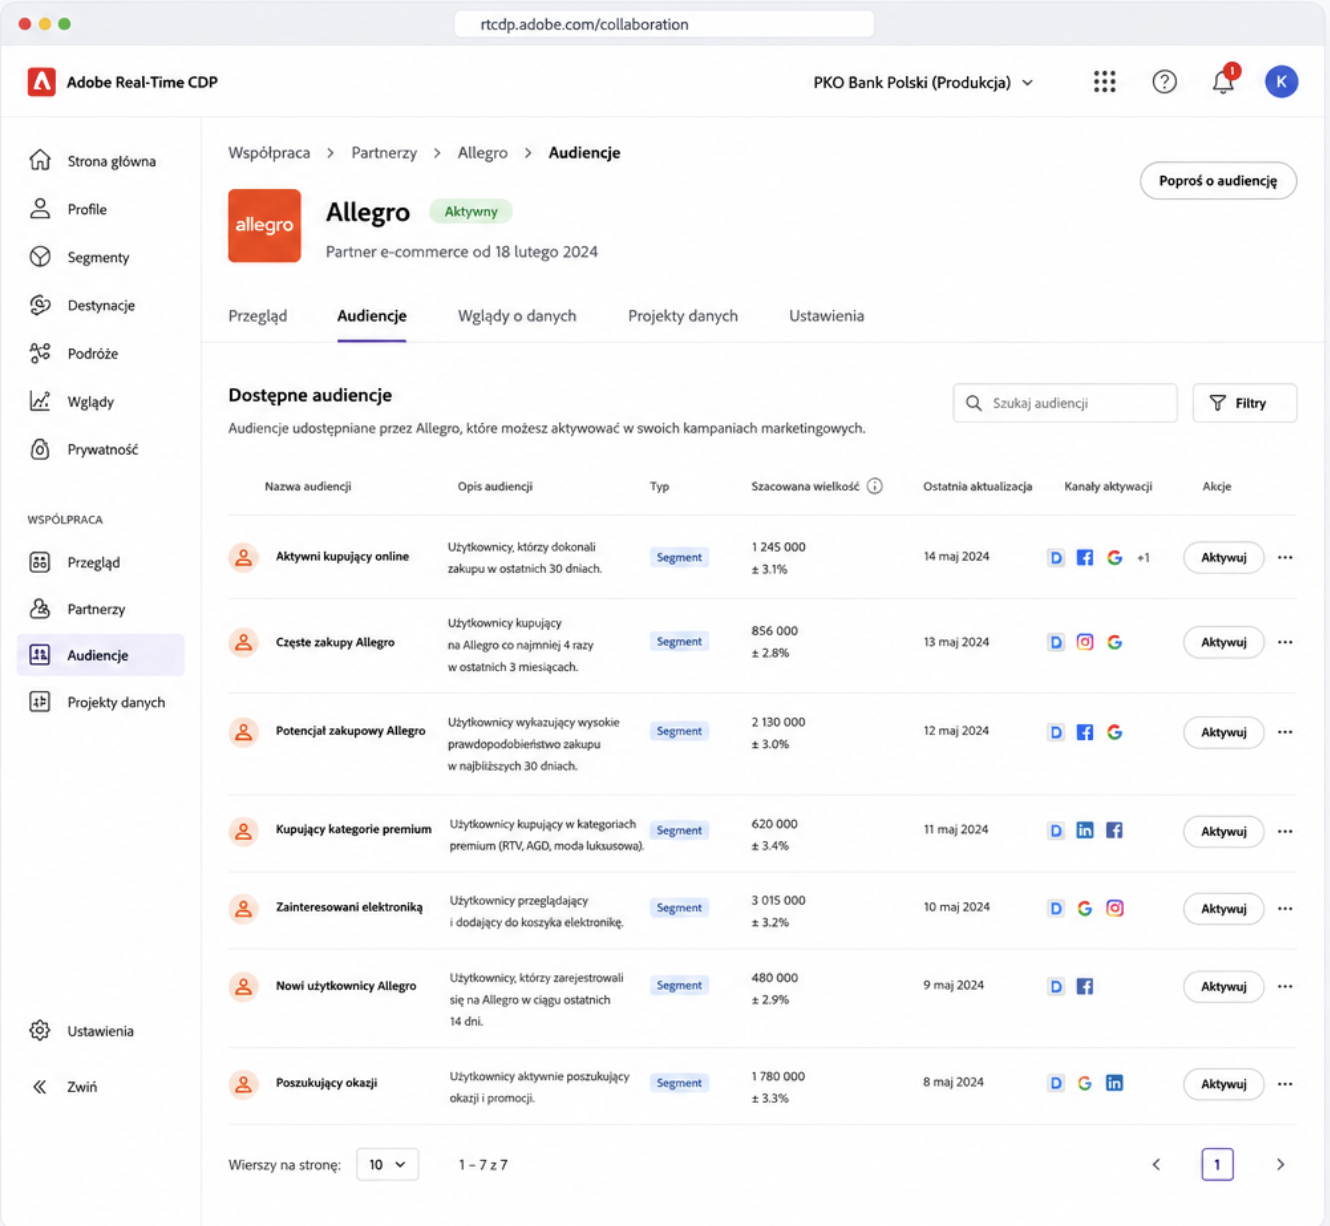
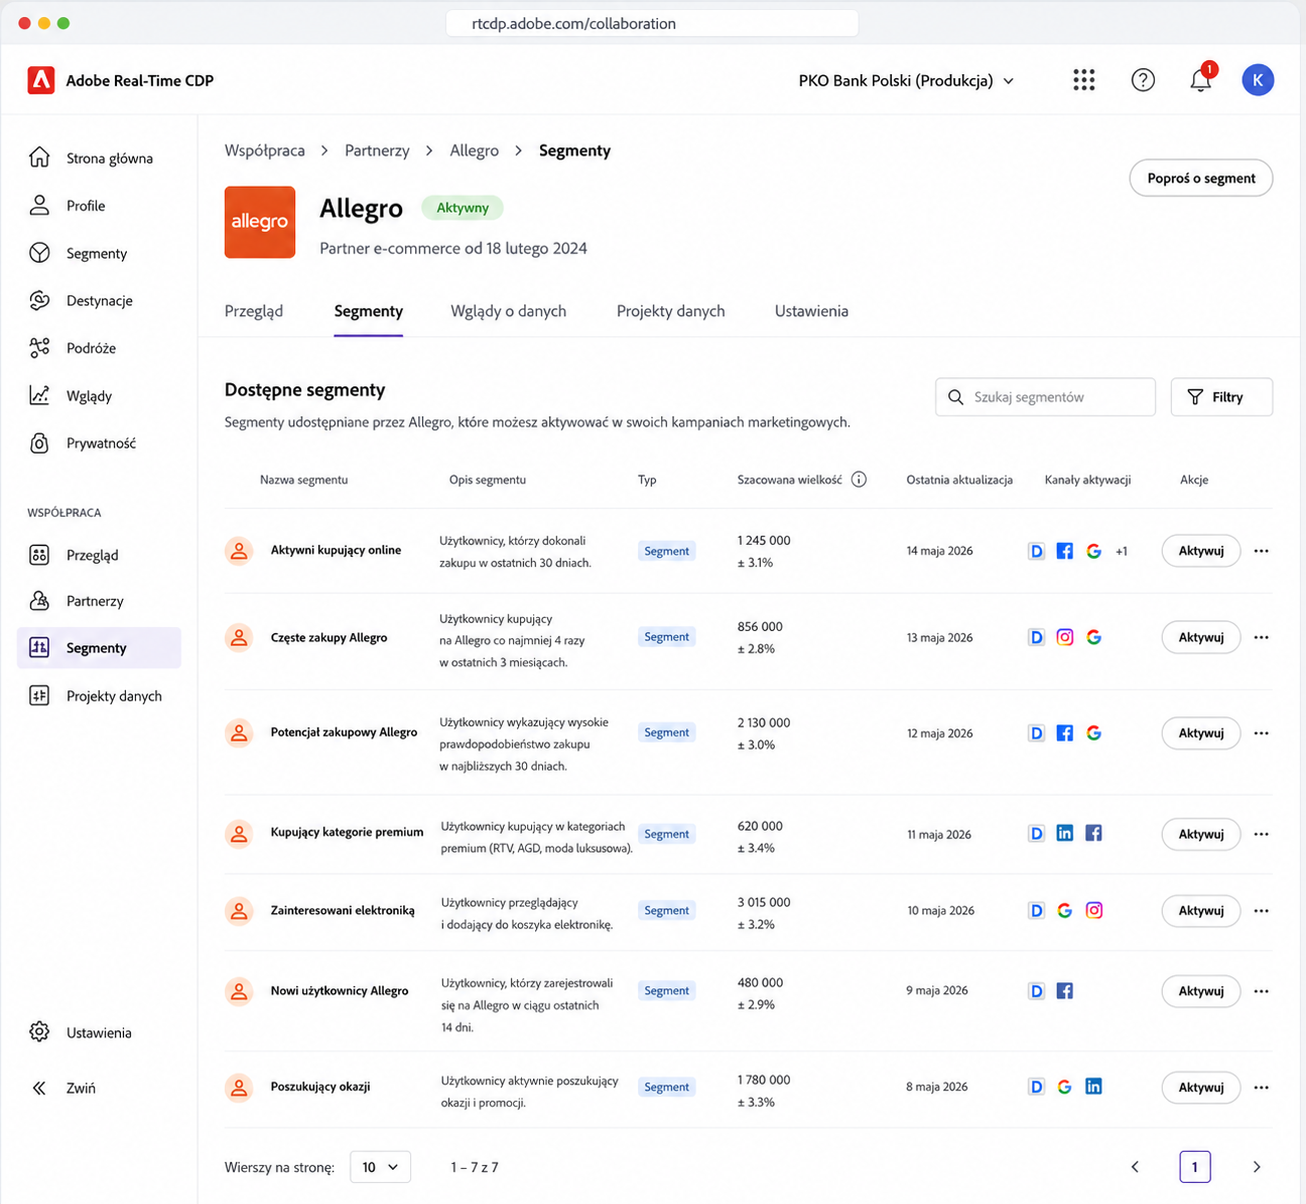
Update ACQ STEP 1 with higher-fidelity Collaboration screenshot, fix text overlap
Swaps in the real Adobe RTCDP Collaboration segments screenshot and rewrites
the copy per feedback. Also fixes the fp-points list overlapping the
screenshot's left edge by narrowing the story column for this slide.

diff --git a/index.html b/index.html
@@ -175,6 +175,8 @@ html,body{width:100%;height:100%;margin:0;overflow:hidden;background:#0a1628;fon
 .slide.michal-email-confirm .quote{font-size:18px;padding:12px 18px;margin-bottom:12px;}
 .slide.michal-email-confirm .prodcard{font-size:15px;line-height:1.35;padding:11px 15px;margin-bottom:12px;}
 .slide.michal-email-confirm .takeaway{font-size:17px;}
+.slide.michal-collab .story{width:670px;}
+.slide.michal-collab .fp-points{width:100%;}
 /* Paid media panel */
 .panel{width:100%;height:100%;background:#fff;border-radius:18px;border:1px solid var(--line);box-shadow:0 24px 60px rgba(16,32,70,.14);padding:40px 44px;overflow:hidden;}
 .panel h3{margin:0 0 20px;font-size:17px;letter-spacing:.16em;text-transform:uppercase;color:var(--red);font-weight:700;}
@@ -308,24 +310,24 @@ html,body{width:100%;height:100%;margin:0;overflow:hidden;background:#0a1628;fon
 </section>
 
 <!-- ACQ STEP 1: FIND MICHAŁ -->
-<section class="slide" data-phase="acq">
+<section class="slide michal-collab" data-phase="acq">
   <div class="phase-pill a1">01 · Pozyskanie</div>
   <div class="story a1">
     <div class="numdisc a1">1</div>
     <h2 class="htitle a2">Znajdź Michała — bez udostępniania danych klientów</h2>
-    <div class="fp-hero a2">RTCDP Collaboration · bezpieczne dopasowanie danych PKO i partnera</div>
-    <p class="narr a3"><strong>RTCDP Collaboration</strong> pozwala pójść o krok dalej — łączy dane PKO z danymi <strong>Allegro</strong> w bezpiecznym clean roomie, bez wymiany adresów e-mail czy list klientów. Michał nie złożył jeszcze wniosku, a Ewelina już widzi część wspólną.</p>
-    <div class="profilebar a3"><span class="plab">Audiencje Michała</span><span class="pp">Aktywny kupujący online</span><span class="pp np">Częste zakupy Allegro</span><span class="pp np">Potencjał podróżniczy</span></div>
+    <div class="fp-hero a2">RTCDP Collaboration · bezpieczne łączenie sygnałów PKO i partnera</div>
+    <p class="narr a3"><strong>RTCDP Collaboration</strong> pozwala wykorzystać sygnały partnera bez wymiany danych osobowych czy list klientów. W bezpiecznym środowisku clean room PKO może budować precyzyjne grupy odbiorców i docierać do osób o wysokim potencjale — takich jak Michał.</p>
+    <div class="profilebar a3"><span class="plab">Przykładowe audiencje</span><span class="pp">Aktywny kupujący online</span><span class="pp np">Częste zakupy Allegro</span></div>
     <div class="fp-points a4">
-      <div class="fp-point"><div class="ic">1</div><div class="tx"><strong>Wyższa jakość audiencji</strong> niż szerokie targetowanie czy pliki cookie stron trzecich.</div></div>
-      <div class="fp-point"><div class="ic">2</div><div class="tx"><strong>Clean room</strong> — wgląd partnera bez udostępniania danych osobowych, zgodnie z RODO.</div></div>
-      <div class="fp-point"><div class="ic">3</div><div class="tx"><strong>Aktywacja jednym kliknięciem</strong> w Meta, Google lub kanałach własnych.</div></div>
+      <div class="fp-point"><div class="ic">1</div><div class="tx"><strong>Precyzyjniejsze audiencje</strong> — sygnały partnera zamiast szerokiego targetowania.</div></div>
+      <div class="fp-point"><div class="ic">2</div><div class="tx"><strong>Prywatność by design</strong> — współpraca bez udostępniania danych osobowych.</div></div>
+      <div class="fp-point"><div class="ic">3</div><div class="tx"><strong>Bezpośrednia aktywacja</strong> — Meta, Google i kanały własne.</div></div>
     </div>
     <div class="takeaway a5">Znajdź takich jak Michał, zanim sami Cię znajdą.</div>
   </div>
   <div class="screen screen-product a3">
     <div class="product-shot-wrap">
-      <img class="product-shot" src="assets/rtcdp-collaboration-allegro.png" alt="Adobe RTCDP Collaboration — audiencje PKO × Allegro">
+      <img class="product-shot" src="assets/rtcdp-collaboration-allegro.png" alt="Adobe RTCDP Collaboration — dostępne audiencje PKO × Allegro">
     </div>
   </div>
   <div class="persona a5"><div class="av" style="background:linear-gradient(150deg,var(--red),var(--red-dk));">E</div><div class="nm">Ewelina</div></div>
